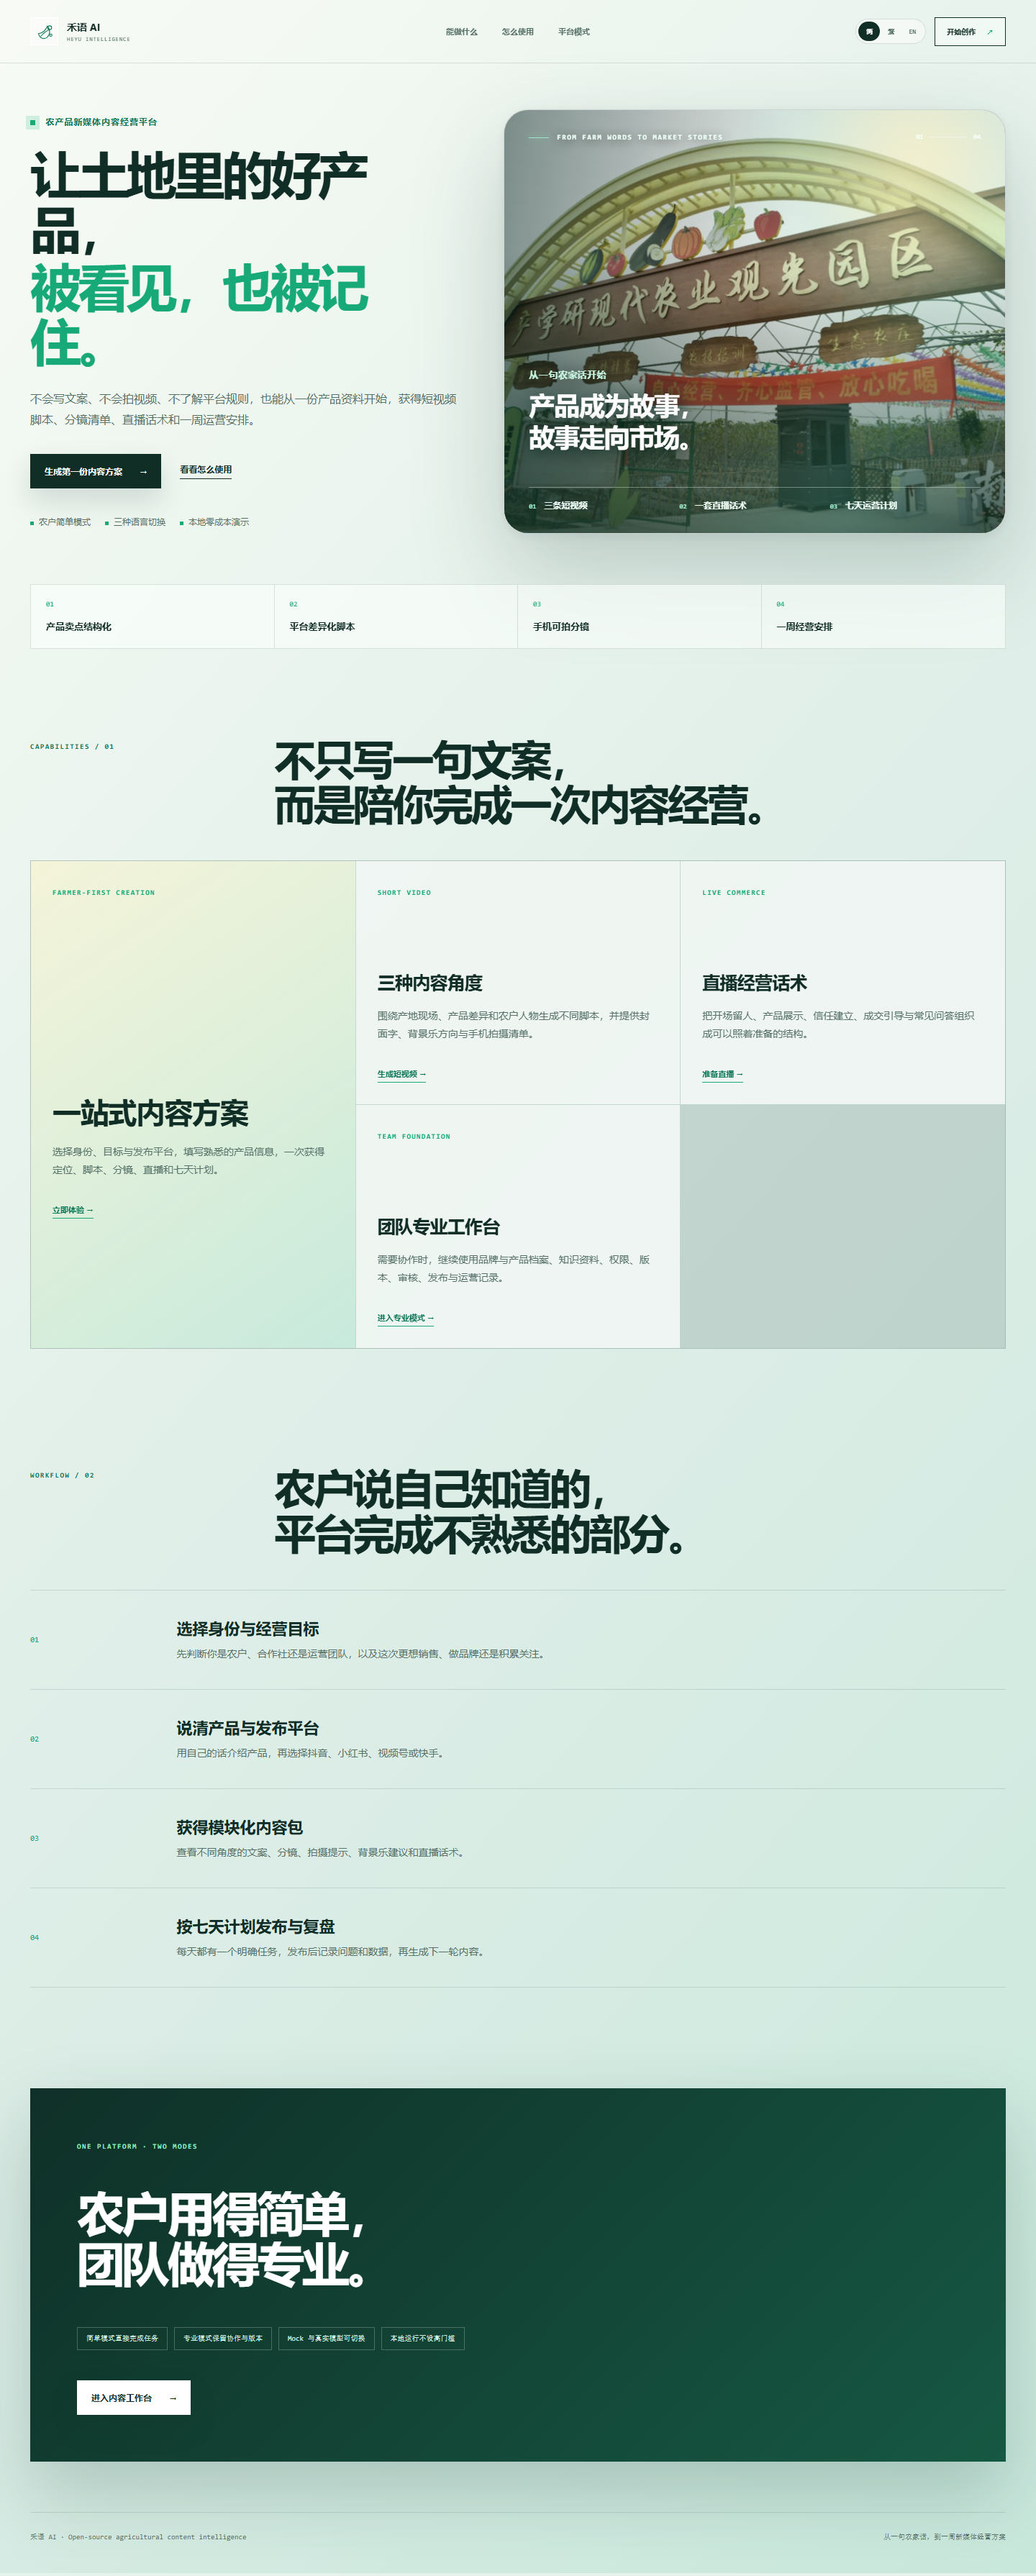
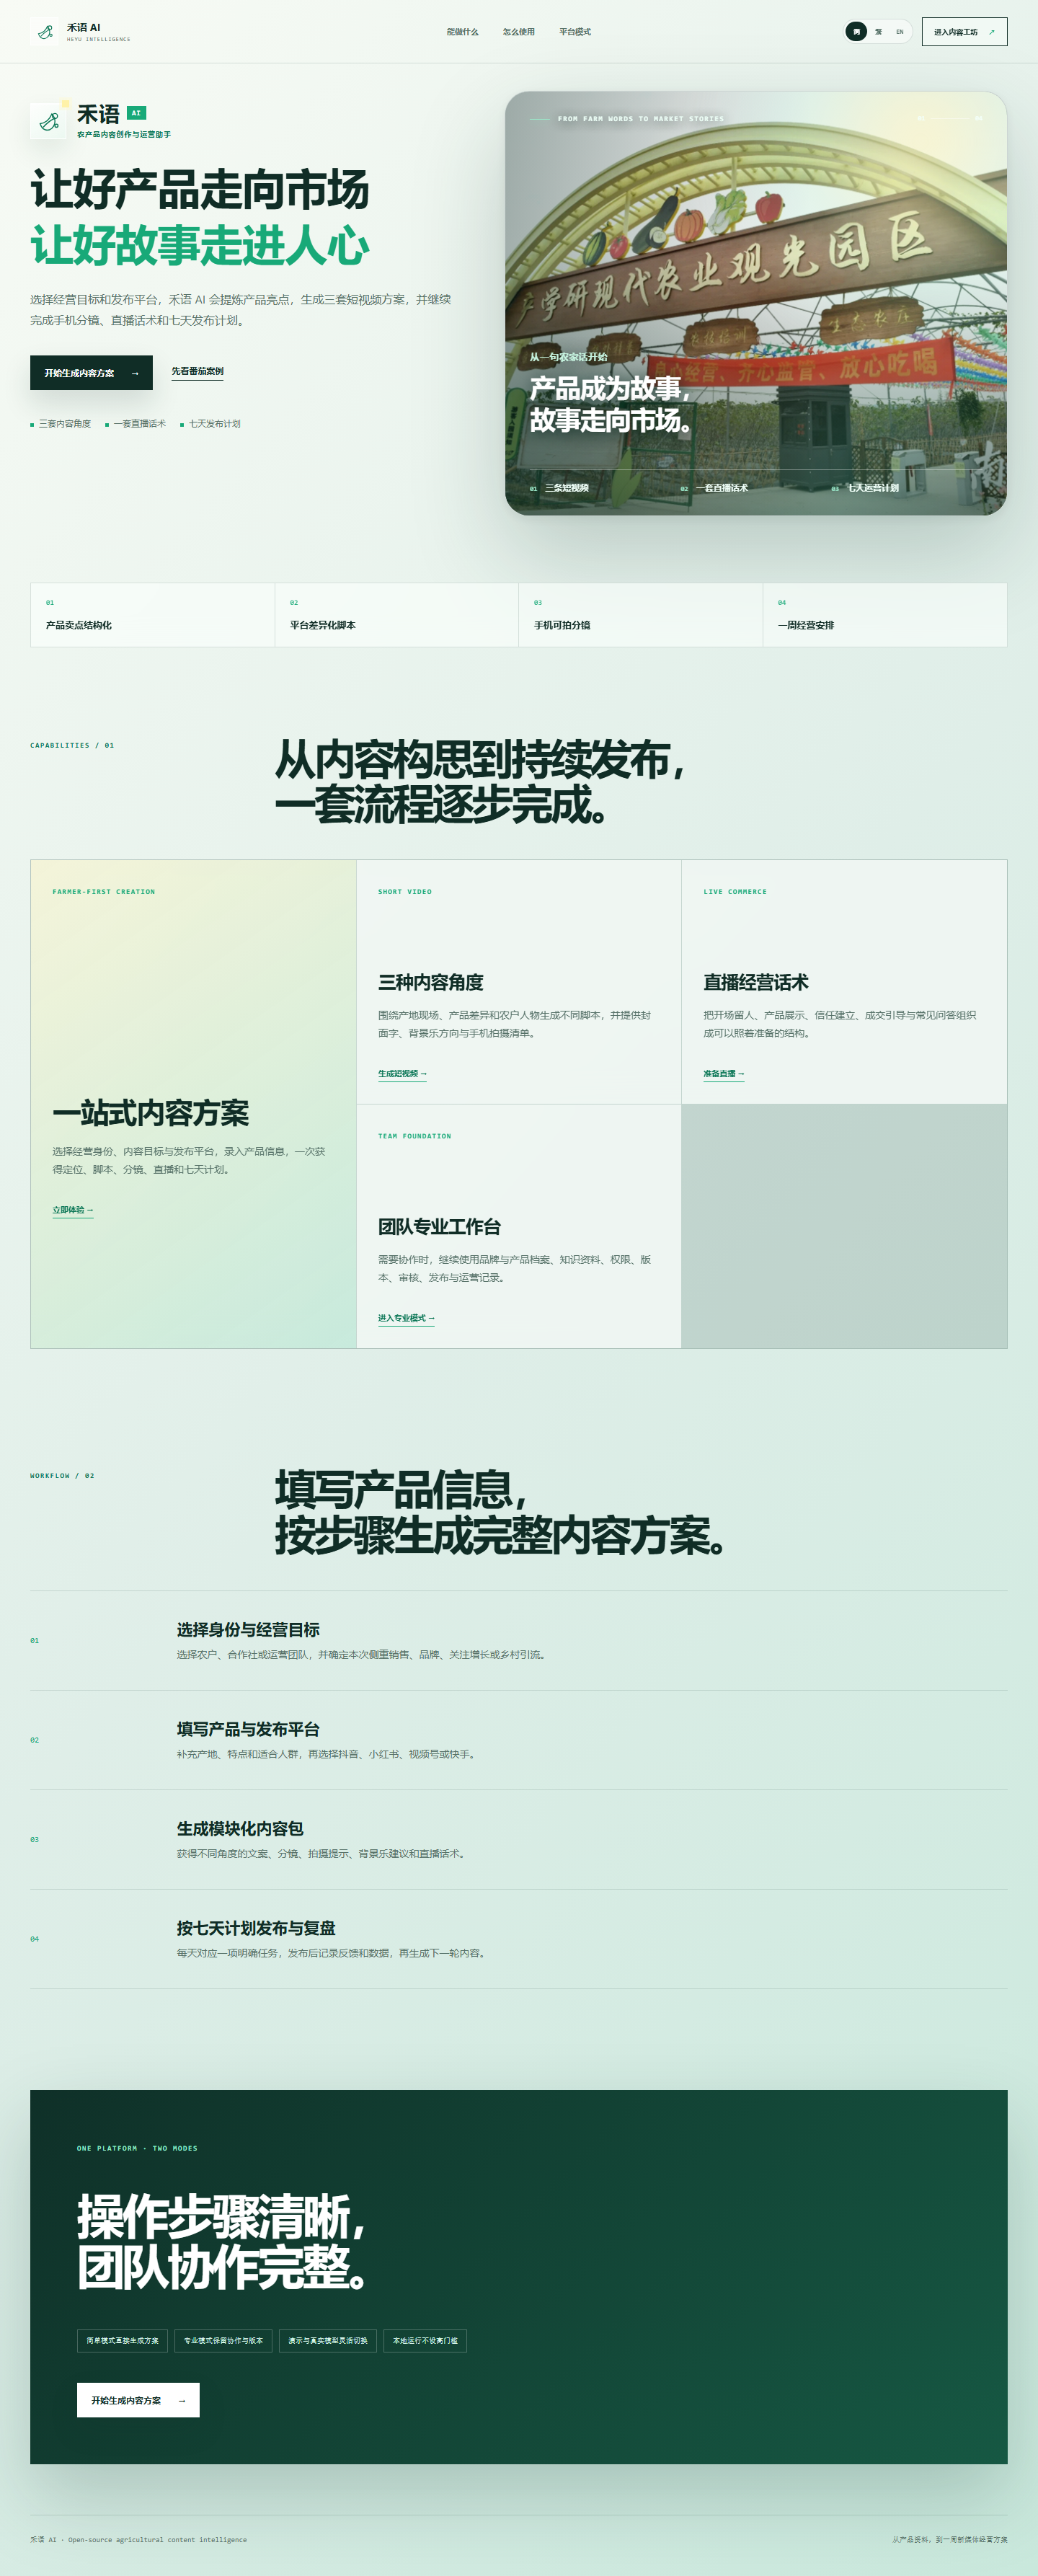
feat: refresh latest landing visual and README preview

diff --git a/apps/web/index.html b/apps/web/index.html
@@ -46,10 +46,10 @@
         </picture>
         <div class="hero-photo-glow" aria-hidden="true"></div>
         <div class="stage-index" aria-hidden="true"><span>01</span><i></i><span>04</span></div>
-        <span class="stage-label"><i></i> FROM PRODUCT BRIEF TO CONTENT PLAN</span>
+        <span class="stage-label"><i></i> FROM FARM WORDS TO MARKET STORIES</span>
         <div class="hero-stage-story">
-          <p>从产品资料到发布计划</p>
-          <strong>每一步，<br>都有清晰结果。</strong>
+          <p>从一句农家话开始</p>
+          <strong>产品成为故事，<br>故事走向市场。</strong>
         </div>
         <div class="hero-proof-rail" aria-label="平台核心结果">
           <span><b>01</b> 三条短视频</span>

diff --git a/apps/web/assets/landing.css b/apps/web/assets/landing.css
@@ -2,8 +2,9 @@
 *{box-sizing:border-box}html{scroll-behavior:smooth;background:#e6f3ed}body{margin:0;overflow-x:hidden;color:var(--ink);font-family:var(--body);background:linear-gradient(132deg,#f8fbf5 0,#dfeee8 49%,#c9e8dc 100%)}a{color:inherit;text-decoration:none}.landing-ambient{position:fixed;inset:-12%;z-index:-2;overflow:hidden;isolation:isolate;pointer-events:none}.landing-ambient i{position:absolute;display:block;will-change:transform}.landing-sun{left:-9%;top:-30%;width:70vw;height:70vw;border-radius:50%;background:radial-gradient(circle,#fffbd9e8 0,#ffe98a70 31%,transparent 67%);filter:blur(10px);animation:sun-drift 18s ease-in-out infinite alternate}.landing-ribbon{width:92vw;height:44vw;min-width:950px;min-height:450px;border-radius:50%;filter:blur(65px);mix-blend-mode:multiply}.ribbon-a{right:-28%;top:-10%;opacity:.58;background:linear-gradient(100deg,transparent 5%,#a3efd2 33%,#3bc597 59%,transparent 89%);transform:rotate(-12deg);animation:ribbon-a 23s ease-in-out infinite alternate}.ribbon-b{left:13%;bottom:-31%;opacity:.44;background:linear-gradient(100deg,transparent 4%,#c5e9df 26%,#61d5af 57%,#fff09d70 82%,transparent 96%);transform:rotate(8deg);animation:ribbon-b 29s ease-in-out infinite alternate}.landing-orb{right:0;bottom:4%;width:34vw;height:34vw;border-radius:50%;background:radial-gradient(circle,#e5fff5ba,#68d8b14d 43%,transparent 72%);filter:blur(28px);animation:orb 21s ease-in-out infinite alternate}
 .landing-nav{position:relative;z-index:10;max-width:1440px;height:88px;margin:auto;padding:0 42px;display:grid;grid-template-columns:1fr auto 1fr;align-items:center;border-bottom:1px solid var(--line)}.landing-brand{display:flex;align-items:center;gap:12px;width:max-content}.landing-logo{width:39px;height:39px;display:grid;place-items:center;border:1px solid #ffffffb8;background:#ffffff7d;backdrop-filter:blur(15px)}.landing-logo svg{width:26px;stroke:var(--green-deep);stroke-width:2}.landing-brand strong,.landing-brand small{display:block}.landing-brand strong{font-size:14px}.landing-brand small{margin-top:3px;color:var(--muted);font:8px var(--mono);letter-spacing:.1em;text-transform:uppercase}.landing-nav nav{display:flex;gap:34px}.landing-nav nav a{color:var(--muted);font-size:11px;font-weight:650}.landing-nav nav a:hover{color:var(--green-deep)}.nav-cta{justify-self:end;padding:12px 16px;border:1px solid var(--ink);font-size:10px;font-weight:750;background:#fafffd78;backdrop-filter:blur(12px)}.nav-cta b{margin-left:12px;color:var(--green)}
 main{position:relative;z-index:1}.landing-hero{max-width:1440px;min-height:720px;margin:auto;padding:64px 42px 70px;display:grid;grid-template-columns:minmax(0,.92fr) minmax(560px,1.08fr);align-items:center;gap:64px}.hero-identity{display:flex;align-items:center;gap:15px;width:max-content;margin:0 0 30px}.hero-identity-mark{position:relative;width:50px;height:50px;display:grid;place-items:center;border:1px solid #ffffffd4;background:linear-gradient(145deg,#ffffffc7,#e4f7ee91);box-shadow:0 16px 36px #164b3918,inset 0 1px #fff;backdrop-filter:blur(16px)}.hero-identity-mark:after{content:"";position:absolute;right:-5px;top:-5px;width:10px;height:10px;background:var(--sun);box-shadow:0 0 0 4px #fff7c85c}.hero-identity-mark svg{width:34px;stroke:var(--green-deep);stroke-width:2}.hero-wordmark,.hero-wordmark>span,.hero-wordmark small{display:block}.hero-wordmark>span{display:flex;align-items:center;gap:9px;line-height:1}.hero-wordmark strong{font:850 29px/1 var(--display);letter-spacing:.035em}.hero-wordmark b{padding:5px 7px 4px;background:var(--green);color:#fff;font:800 10px/1 var(--mono);letter-spacing:.08em}.hero-wordmark small{margin-top:8px;color:var(--green-deep);font-size:10px;font-weight:700;letter-spacing:.09em}.hero-copy h1{max-width:720px;margin:0;font:820 clamp(46px,4.2vw,64px)/1.16 var(--display);letter-spacing:-.028em}.hero-copy h1>span,.hero-copy h1 em{display:block}.hero-copy h1 em{margin-top:8px;color:var(--green);font-style:normal}html[lang^=zh] .hero-copy h1>span,html[lang^=zh] .hero-copy h1 em{white-space:nowrap}.hero-lead{max-width:620px;margin:29px 0 0;color:var(--muted);font-size:16px;line-height:1.82}.hero-actions{display:flex;align-items:center;gap:26px;margin-top:34px}.primary-cta{display:inline-flex;align-items:center;justify-content:center;min-height:48px;padding:0 20px;background:var(--ink);color:#fff;font-size:12px;font-weight:750;box-shadow:0 18px 38px #14372c26;transition:.25s}.primary-cta:hover{background:var(--green);transform:translateY(-2px)}.primary-cta b{margin-left:24px}.text-link{padding-bottom:5px;border-bottom:1px solid var(--ink);font-size:12px;font-weight:700}.trust-row{display:flex;flex-wrap:wrap;gap:20px;margin-top:38px;color:var(--muted);font-size:12px}.trust-row span:before{content:"";display:inline-block;width:5px;height:5px;margin-right:7px;background:var(--green)}
-.hero-stage{position:relative;min-height:590px;border:1px solid #ffffffc9;border-radius:34px;background:#123b31;box-shadow:0 52px 130px #173d3138,0 4px 16px #173d3112,inset 0 1px #fff;overflow:hidden;isolation:isolate}.hero-stage picture{position:absolute;inset:0}.hero-stage:before{content:"";position:absolute;z-index:1;inset:0;background:linear-gradient(180deg,#06271f0d 0%,transparent 34%,#06271fbd 100%),linear-gradient(90deg,#05282078 0%,transparent 58%)}.hero-stage:after{content:"";position:absolute;z-index:1;inset:-8%;background:linear-gradient(118deg,transparent 24%,#ffe99d18 53%,#74e0b530 73%,transparent 94%);mix-blend-mode:screen;animation:photo-aurora 16s ease-in-out infinite alternate}.hero-photo{position:absolute;inset:0;width:100%;height:100%;object-fit:cover;object-position:center 47%;filter:saturate(.86) contrast(1.04) brightness(.94);transform:scale(1.018);animation:photo-drift 24s ease-in-out infinite alternate}.hero-photo-glow{position:absolute;z-index:2;right:-180px;top:-230px;width:600px;height:600px;border-radius:50%;background:radial-gradient(circle,#fff4b38f 0,#82e0bb32 42%,transparent 72%);filter:blur(25px);animation:photo-glow 16s ease-in-out infinite alternate}.stage-label{position:absolute;z-index:3;left:34px;top:32px;display:flex;align-items:center;color:#edfff7;font:700 10px var(--mono);letter-spacing:.15em;text-shadow:0 2px 15px #06261f}.stage-label i{width:28px;height:1px;margin-right:11px;background:#9be8ca;box-shadow:0 0 12px #81e4b8}.stage-index{position:absolute;z-index:3;right:34px;top:32px;display:flex;align-items:center;gap:8px;color:#f3fff9;font:700 9px var(--mono)}.stage-index i{display:block;width:54px;height:1px;background:#ffffff70}.hero-stage-story{position:absolute;z-index:3;left:34px;bottom:112px;max-width:460px;color:#fff;text-shadow:0 3px 24px #05271f}.hero-stage-story p{margin:0 0 12px;color:#c6f3df;font-size:13px;font-weight:650;letter-spacing:.035em}.hero-stage-story strong{display:block;font:720 clamp(27px,2.5vw,38px)/1.22 var(--display);letter-spacing:-.035em}.hero-proof-rail{position:absolute;z-index:3;left:34px;right:34px;bottom:31px;display:grid;grid-template-columns:repeat(3,1fr);border-top:1px solid #ffffff5c;color:#f0fff8}.hero-proof-rail span{padding-top:16px;font-size:12px;font-weight:650}.hero-proof-rail b{margin-right:8px;color:#9be8ca;font:700 9px var(--mono)}
+.hero-stage{position:relative;min-height:590px;border:1px solid #ffffffc9;border-radius:34px;background:#123b31;box-shadow:0 52px 130px #173d3138,0 4px 16px #173d3112,inset 0 1px #fff;overflow:hidden;isolation:isolate}.hero-stage picture{position:absolute;inset:0}.hero-stage:before{content:"";position:absolute;z-index:1;inset:0;background:linear-gradient(180deg,#06271f08 0%,transparent 38%,#06271f9e 100%),linear-gradient(90deg,#0528205c 0%,transparent 61%)}.hero-stage:after{content:"";position:absolute;z-index:1;inset:-8%;background:linear-gradient(118deg,transparent 24%,#ffe99d18 53%,#74e0b530 73%,transparent 94%);mix-blend-mode:screen;animation:photo-aurora 16s ease-in-out infinite alternate}.hero-photo{position:absolute;inset:0;width:100%;height:100%;object-fit:cover;object-position:center 47%;filter:saturate(.94) contrast(1.02) brightness(.98);transform:scale(1.006);animation:photo-drift 24s ease-in-out infinite alternate}.hero-photo-glow{position:absolute;z-index:2;right:-180px;top:-230px;width:600px;height:600px;border-radius:50%;background:radial-gradient(circle,#fff4b38f 0,#82e0bb32 42%,transparent 72%);filter:blur(25px);animation:photo-glow 16s ease-in-out infinite alternate}.stage-label{position:absolute;z-index:3;left:34px;top:32px;display:flex;align-items:center;color:#edfff7;font:700 10px var(--mono);letter-spacing:.15em;text-shadow:0 2px 15px #06261f}.stage-label i{width:28px;height:1px;margin-right:11px;background:#9be8ca;box-shadow:0 0 12px #81e4b8}.stage-index{position:absolute;z-index:3;right:34px;top:32px;display:flex;align-items:center;gap:8px;color:#f3fff9;font:700 9px var(--mono)}.stage-index i{display:block;width:54px;height:1px;background:#ffffff70}.hero-stage-story{position:absolute;z-index:3;left:34px;bottom:112px;max-width:460px;color:#fff;text-shadow:0 3px 24px #05271f}.hero-stage-story p{margin:0 0 12px;color:#c6f3df;font-size:13px;font-weight:650;letter-spacing:.035em}.hero-stage-story strong{display:block;font:720 clamp(27px,2.5vw,38px)/1.22 var(--display);letter-spacing:-.035em}.hero-proof-rail{position:absolute;z-index:3;left:34px;right:34px;bottom:31px;display:grid;grid-template-columns:repeat(3,1fr);border-top:1px solid #ffffff5c;color:#f0fff8}.hero-proof-rail span{padding-top:16px;font-size:12px;font-weight:650}.hero-proof-rail b{margin-right:8px;color:#9be8ca;font:700 9px var(--mono)}
 .proof-strip{max-width:1356px;margin:0 auto 120px;display:grid;grid-template-columns:repeat(4,1fr);border:1px solid var(--line);background:#fafffca0;backdrop-filter:blur(18px)}.proof-strip article{min-height:88px;padding:21px;border-right:1px solid var(--line)}.proof-strip article:last-child{border:0}.proof-strip strong,.proof-strip span{display:block}.proof-strip strong{color:var(--green);font:10px var(--mono)}.proof-strip span{margin-top:16px;font-size:13px;font-weight:700}.landing-section{max-width:1356px;margin:0 auto 140px}.section-heading{display:grid;grid-template-columns:.5fr 1.5fr;align-items:start;margin-bottom:50px}.section-heading p{color:var(--green-deep);font:700 10px var(--mono);letter-spacing:.14em}.section-heading h2{margin:0;font:760 clamp(38px,4vw,58px)/1.08 var(--display);letter-spacing:-.05em}.capability-grid{display:grid;grid-template-columns:repeat(3,1fr);gap:1px;background:var(--line);border:1px solid var(--line)}.capability-grid article{min-height:310px;padding:30px;background:#fbfffdc4;backdrop-filter:blur(20px)}.capability-grid .feature-main{grid-row:span 2;min-height:621px;background:linear-gradient(145deg,#fffbdac9,#c8f1e1b8)}.capability-grid span{color:var(--green);font:700 10px var(--mono);letter-spacing:.13em}.capability-grid h3{margin:100px 0 18px;font-size:25px;letter-spacing:-.03em}.capability-grid .feature-main h3{margin-top:270px;font-size:40px}.capability-grid p{color:var(--muted);font-size:14px;line-height:1.75}.capability-grid a{display:inline-block;margin-top:22px;padding-bottom:4px;border-bottom:1px solid var(--green);color:var(--green-deep);font-size:11px;font-weight:700}.workflow-section{padding-top:20px}.workflow-list{list-style:none;margin:0;padding:0;border-top:1px solid var(--line)}.workflow-list li{display:grid;grid-template-columns:.3fr 1.7fr;align-items:center;min-height:138px;border-bottom:1px solid var(--line)}.workflow-list b{color:var(--green);font:11px var(--mono)}.workflow-list h3{margin:0 0 9px;font-size:22px}.workflow-list p{margin:0;color:var(--muted);font-size:14px;line-height:1.65}.principle-card{max-width:1356px;min-height:500px;margin:0 auto 70px;padding:65px;background:linear-gradient(135deg,#0f3028,#165843);color:#fff;box-shadow:0 45px 100px #173c3138}.principle-card>p{color:#91e8c7;font:700 10px var(--mono);letter-spacing:.15em}.principle-card h2{max-width:850px;margin:50px 0 55px;font:780 clamp(45px,4.6vw,66px)/1.06 var(--display);letter-spacing:-.052em}.principle-card>div{display:flex;flex-wrap:wrap;gap:9px;margin-bottom:42px}.principle-card>div span{padding:9px 12px;border:1px solid #ffffff3d;color:#d7f5e9;font:10px var(--mono)}.principle-card .primary-cta{background:#fff;color:var(--ink)}footer{max-width:1356px;margin:auto;padding:28px 0 44px;display:flex;justify-content:space-between;border-top:1px solid var(--line);color:var(--muted);font:10px var(--mono)}
+.landing-hero{padding-top:38px;align-items:start}.hero-copy{padding-top:16px}
 @keyframes sun-drift{to{transform:translate3d(9%,7%,0) scale(1.08)}}@keyframes ribbon-a{0%{transform:translate3d(2%,-2%,0) rotate(-12deg) scale(.96)}50%{transform:translate3d(-7%,7%,0) rotate(-7deg) scale(1.08)}100%{transform:translate3d(-12%,1%,0) rotate(-14deg) scale(1.02)}}@keyframes ribbon-b{0%{transform:translate3d(-7%,4%,0) rotate(8deg) scale(1.04)}50%{transform:translate3d(2%,-8%,0) rotate(3deg) scale(.97)}100%{transform:translate3d(10%,-3%,0) rotate(11deg) scale(1.07)}}@keyframes orb{to{transform:translate3d(-14%,-10%,0) scale(1.14)}}@keyframes photo-drift{to{transform:scale(1.065) translate3d(-.8%,.55%,0)}}@keyframes photo-glow{to{transform:translate3d(-62px,62px,0) scale(1.1)}}@keyframes photo-aurora{to{transform:translate3d(-4%,1%,0);opacity:.68}}
 @media(max-width:1050px){.landing-nav{grid-template-columns:1fr auto}.landing-nav nav{display:none}.landing-hero{grid-template-columns:1fr;padding-top:60px}.hero-stage{min-height:520px}.proof-strip,.landing-section,.principle-card,footer{margin-left:24px;margin-right:24px}.capability-grid{grid-template-columns:1fr 1fr}.capability-grid .feature-main{grid-row:auto;grid-column:1/-1;min-height:410px}.capability-grid .feature-main h3{margin-top:130px}}
 @media(max-width:650px){.landing-nav{height:72px;padding:0 17px}.landing-brand small,.nav-cta b{display:none}.nav-cta{padding:10px}.landing-hero{min-height:0;padding:46px 18px 42px;gap:38px}.hero-identity{gap:12px;margin-bottom:26px}.hero-identity-mark{width:46px;height:46px}.hero-identity-mark svg{width:31px}.hero-wordmark strong{font-size:26px}.hero-wordmark small{font-size:9px;letter-spacing:.055em}.hero-copy h1{font-size:clamp(33px,10.4vw,40px);line-height:1.2;letter-spacing:-.02em}.hero-lead{font-size:15px;line-height:1.78}.hero-actions{align-items:flex-start;flex-direction:column}.trust-row{gap:12px;font-size:11px}.hero-stage{min-height:500px;border-radius:22px}.hero-photo{object-position:58% center}.stage-label{left:20px;top:22px;font-size:8px}.stage-index{right:20px;top:22px}.stage-index i{width:28px}.hero-stage-story{left:20px;right:20px;bottom:118px}.hero-stage-story p{font-size:12px}.hero-stage-story strong{font-size:28px}.hero-proof-rail{left:20px;right:20px;bottom:23px}.hero-proof-rail span{font-size:10px}.hero-proof-rail b{display:block;margin:0 0 5px}.proof-strip{grid-template-columns:1fr 1fr;margin:0 18px 90px}.proof-strip article:nth-child(2){border-right:0}.proof-strip article:nth-child(-n+2){border-bottom:1px solid var(--line)}.landing-section{margin:0 18px 100px}.section-heading{grid-template-columns:1fr;gap:20px}.section-heading h2{font-size:38px;line-height:1.16;letter-spacing:-.025em}.capability-grid{grid-template-columns:1fr}.capability-grid .feature-main{grid-column:auto}.capability-grid article,.capability-grid .feature-main{min-height:300px}.capability-grid h3,.capability-grid .feature-main h3{margin-top:90px;font-size:28px}.workflow-list li{grid-template-columns:55px 1fr}.principle-card{min-height:0;margin:0 0 40px;padding:48px 20px;border-radius:0}.principle-card h2{font-size:40px;line-height:1.16;letter-spacing:-.025em}footer{margin:0 18px;gap:20px;flex-direction:column}.landing-ribbon{opacity:.35}}

diff --git a/apps/api/tests/test_marketing_plan.py b/apps/api/tests/test_marketing_plan.py
@@ -637,6 +637,72 @@ class _FakeResponse:
         return self.body
 
 
+def test_openai_compatible_provider_sends_expected_request_contract(monkeypatch):
+    source = DeterministicMarketingProvider().generate(sample_request()).model_dump()
+    calls = []
+
+    def fake_post(url, *, headers, json, timeout):
+        calls.append(
+            {
+                "url": url,
+                "headers": headers,
+                "json": json,
+                "timeout": timeout,
+            }
+        )
+        return _FakeResponse(
+            {
+                "choices": [
+                    {
+                        "message": {
+                            "content": json_module.dumps(source, ensure_ascii=False),
+                        }
+                    }
+                ]
+            }
+        )
+
+    json_module = json
+    monkeypatch.setattr(marketing.httpx, "post", fake_post)
+    settings = _openai_settings(ai_base_url="https://model.example/v1/")
+
+    result = OpenAICompatibleMarketingProvider(settings).generate(sample_request())
+
+    assert result.provider == "openai-compatible"
+    assert result.model == "domestic-model"
+    assert len(calls) == 2
+    call = calls[0]
+    assert call["url"] == "https://model.example/v1/chat/completions"
+    assert call["headers"] == {"Authorization": "Bearer test-only-key"}
+    assert call["timeout"] == settings.ai_timeout_seconds
+    payload = call["json"]
+    assert payload["model"] == "domestic-model"
+    assert payload["response_format"] == {"type": "json_object"}
+    assert payload["messages"][0] == {"role": "system", "content": marketing.SYSTEM_PROMPT}
+    assert payload["messages"][1]["role"] == "user"
+    user_content = json.loads(payload["messages"][1]["content"])
+    assert user_content["request"] == sample_request().model_dump()
+    assert "required_response_schema" in user_content
+    assert user_content["required_response_schema"]["title"] == "MarketingPlanResponse"
+
+    revision_call = calls[1]
+    assert revision_call["url"] == call["url"]
+    assert revision_call["headers"] == call["headers"]
+    assert revision_call["timeout"] == call["timeout"]
+    revision_payload = revision_call["json"]
+    assert revision_payload["model"] == "domestic-model"
+    assert revision_payload["response_format"] == {"type": "json_object"}
+    assert [message["role"] for message in revision_payload["messages"]] == [
+        "system",
+        "user",
+        "assistant",
+        "user",
+    ]
+    revision_content = json.loads(revision_payload["messages"][-1]["content"])
+    assert revision_content["quality_issues"]
+    assert revision_content["required_response_schema"]["title"] == "MarketingPlanResponse"
+
+
 @pytest.mark.parametrize(
     "body",
     [